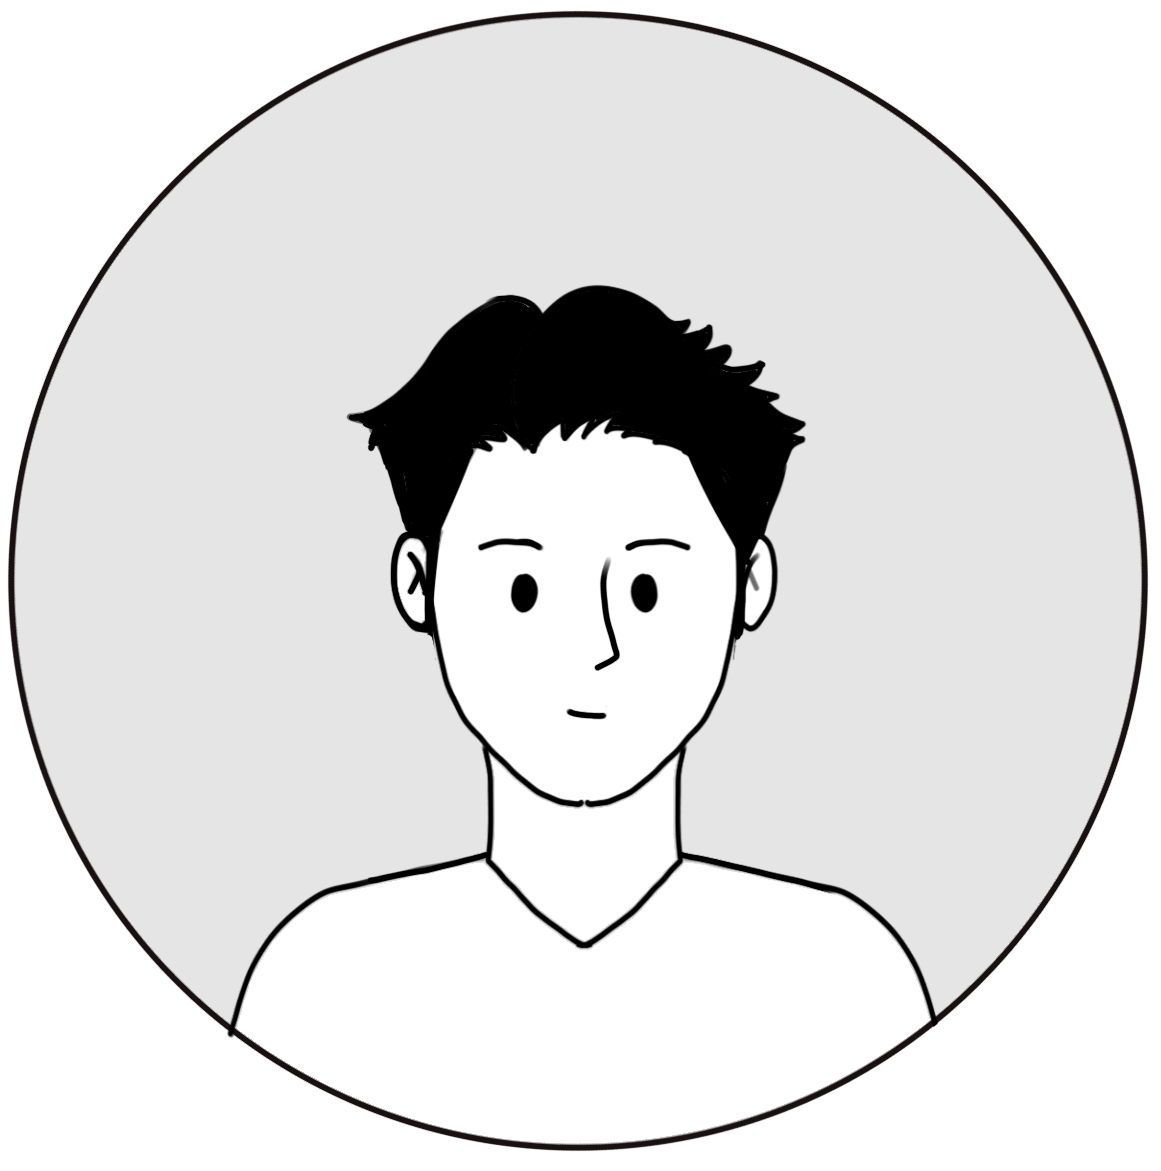
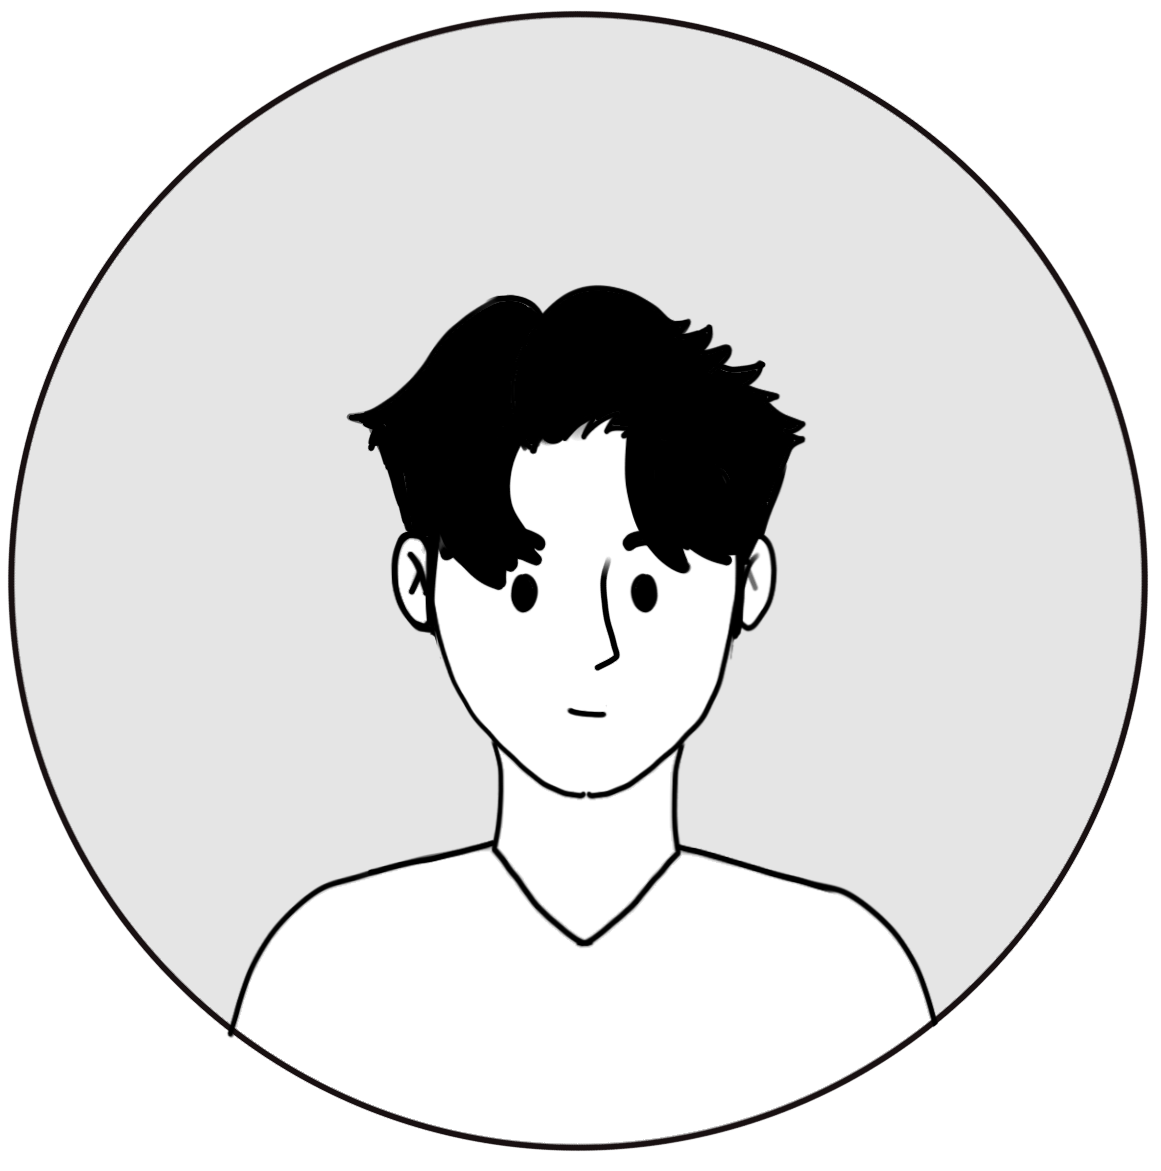
add back button to previous page

diff --git a/components/Header.js b/components/Header.js
@@ -1,5 +1,5 @@
 import React from 'react';
-import {View, Text, StyleSheet, Image} from 'react-native';
+import {View, Text, StyleSheet, Image, Pressable} from 'react-native';
 
 const today = new Date();
 
@@ -12,16 +12,25 @@ const year = today.getFullYear();
 
 const formattedDate = `${day}, ${date}/${month}/${year}`;
 
-export default function Header(){
+export default function Header({includeBack = false ,navigation}){
     return(
-        <View style={[styles.container, {marginTop:"13%"}]}>
-            <Image source = {require('../assets/logo2.png')} style= {styles.logo}></Image>
-            <Text style={styles.date}>{formattedDate}</Text>
+        <View style={{flex:0, flexDirection:'row', marginTop:'13%'}}>
+            {includeBack && (<Pressable onPress={()=> navigation.goBack()} style={styles.back}><Image source={require('../assets/ChevronLeft.png')} style={{width:35, height:35}}></Image></Pressable>)}
+            <View style={[styles.container, ]}>
+                <Image source = {require('../assets/logo2.png')} style= {styles.logo}></Image>
+                <Text style={styles.date}>{formattedDate}</Text>
+            </View>
         </View>
     )
 }
 
 const styles= StyleSheet.create({
+    back:{
+        position:'absolute',
+        top:60,
+        left:20,
+    },
+
     container:{
         width:"100%",
         display: "flex",

diff --git a/screens/Password.js b/screens/Password.js
@@ -9,7 +9,7 @@ import Header from '../components/Header.js';
 import Navigation from '../components/Nav.js';
 import styles from '../assets/style.js';
 
-export default function Password(){
+export default function Password({navigation}){
     const [currentPassword, setCurrentPassword] = useState('');
     const [newPassword, setNewPassword] = useState('');
     const [confirmPassword, setConfirmPassword] = useState('');
@@ -57,7 +57,7 @@ export default function Password(){
     <View style={{flex:1}}>
         <LinearGradient colors={['#F9FAF4', '#F9FAF4', '#cdf5e9', '#FEE172']} style={{flex:1}}>
             <ScrollView>
-                <Header/>
+                <Header includeBack navigation={navigation}/>
                 <View style={{flex:0, justifyContent:'center', alignItems:'center'}}>
                     <View style={[styles.container, {marginTop:'10%', marginBottom:'8%'}]}>
                         <View style={[styles.titleContainer]}>

diff --git a/screens/Languages.js b/screens/Languages.js
@@ -7,7 +7,7 @@ import Header from '../components/Header.js';
 import Navigation from '../components/Nav.js';
 import styles from '../assets/style.js';
 
-export default function Languages(){
+export default function Languages({navigation}){
     const [isLanguage, setIsLanguage] = useState('en');
     const saveLanguage  = async(lang) => {
         const user = (await supabase.auth.getUser()).data.user;
@@ -25,7 +25,7 @@ export default function Languages(){
     return(
     <View style={{flex:1}}>
         <LinearGradient colors={['#F9FAF4', '#F9FAF4', '#cdf5e9', '#FEE172']} style={{flex:1}}>
-            <Header/>
+            <Header includeBack navigation={navigation}/>
             <View style={{flex:0, justifyContent:'center', alignItems:'center',}}>
                 <View style={[styles.container, {marginTop:'10%'}]}>
                     <View style={[styles.titleContainer, ]}>

diff --git a/screens/Register.js b/screens/Register.js
@@ -115,8 +115,6 @@ export default function Register({navigation}) {
                                         <Pressable style={({pressed}) => [styles.trueCenter, styles.buttons, {backgroundColor: pressed? 'gray' : 'black'}]} onPress={handleRegister}>
                                             <View style={[{flexDirection:'row'}, {alignItems:'center'}]}>
                                                 <Text style={[styles.buttonTexts, {color:'white'}]} >LET'S GO </Text>
-                                                <Image source={require('../assets/Check.png')}>
-                                                </Image>
                                             </View>
                                         </Pressable>
                                         <View style={[{flexDirection:'row'}, {alignItems:'center', marginTop:'5%'}]}>

diff --git a/screens/SignIn.js b/screens/SignIn.js
@@ -84,8 +84,6 @@ export default function SignIn({navigation}) {
                                     <Pressable style={({pressed}) => [styles.trueCenter, styles.buttons, {backgroundColor: pressed? "gray" : 'black'}]} onPress={handleSignIn}>
                                         <View style={[{flexDirection:'row'}, {alignItems:'center'}]}>
                                             <Text style={[styles.buttonTexts, {color:'white'}]} >LET'S GO </Text>
-                                            <Image source={require('../assets/Check.png')}>
-                                            </Image>
                                         </View>
                                     </Pressable>
                                        <View style={[{flexDirection:'column', paddingVertical:'10%', justifyContent:'space-between'}]}>

diff --git a/screens/ChangeInfo.js b/screens/ChangeInfo.js
@@ -65,7 +65,7 @@ export default function ChangeInfo({navigation}){
     return(
          <View style={{flex:1,}}>
             <LinearGradient colors={['#F9FAF4', '#F9FAF4', '#cdf5e9', '#FEE172']} style={{flex:1}}>
-                <Header></Header>
+                <Header includeBack navigation={navigation}></Header>
                 <View style={styles.container}>
                     <View style={[styles.titleContainer, {padding:'5%'}]}>
                         <Text style={styles.desc}>personal details</Text>

diff --git a/screens/AddTask.js b/screens/AddTask.js
@@ -196,7 +196,7 @@ export default function AddTask ({navigation, route}){
     return(
         <View style={{flex:1,}}>
             <LinearGradient colors={['#F9FAF4', '#F9FAF4', '#cdf5e9', '#FEE172']} style={{flex:1}}>
-                <Header></Header>
+                <Header includeBack navigation={navigation}></Header>
                 <View style={{flex:0, alignItems:'center'}}>
                 <View style={[styles.container, ]}>
                     <View style={[styles.titleContainer]}>
